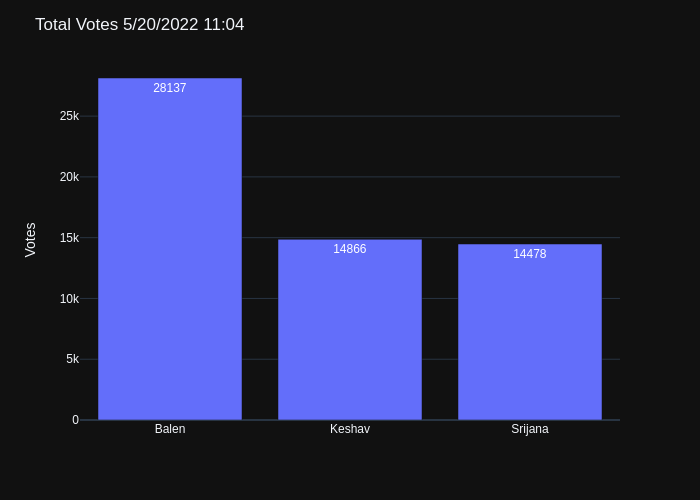
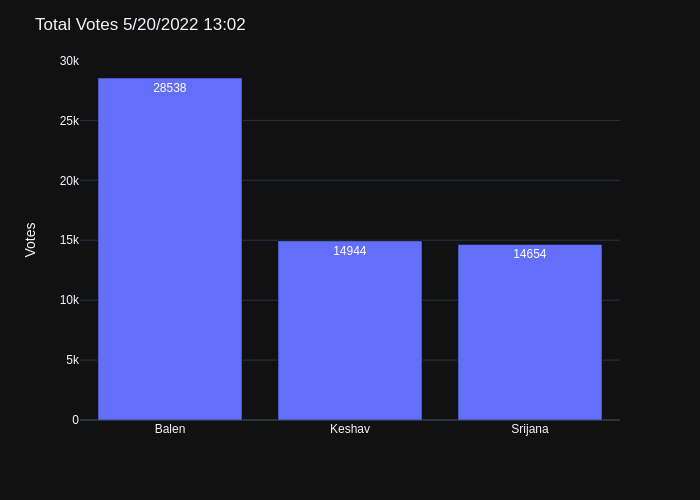
add data

diff --git a/README.md b/README.md
@@ -1,4 +1,4 @@
-## Last Update: 5/20/2022 11:04
+## Last Update: 5/20/2022 13:02
 
 ## Balen's Lead against Keshav Sthapit and Srijana Singh
 ![ScreenShot](final.jpg)
